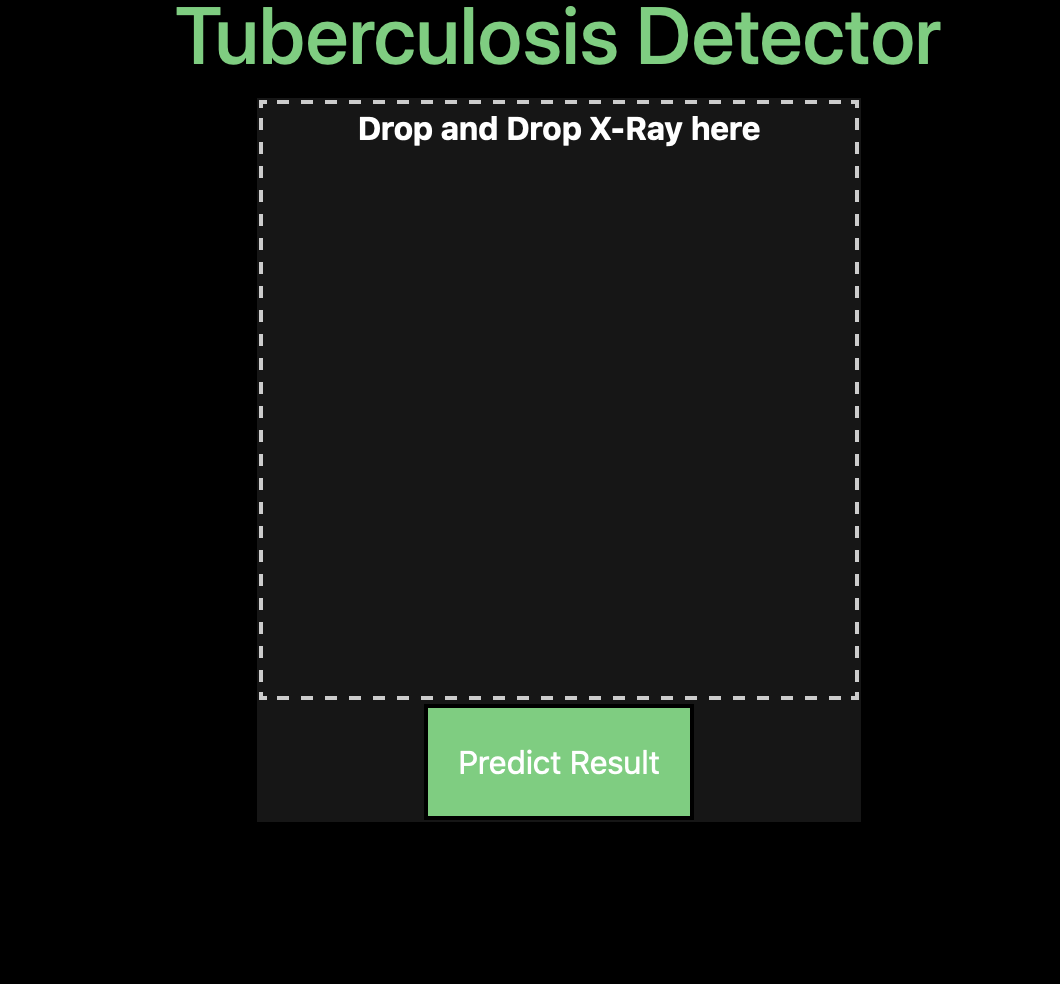
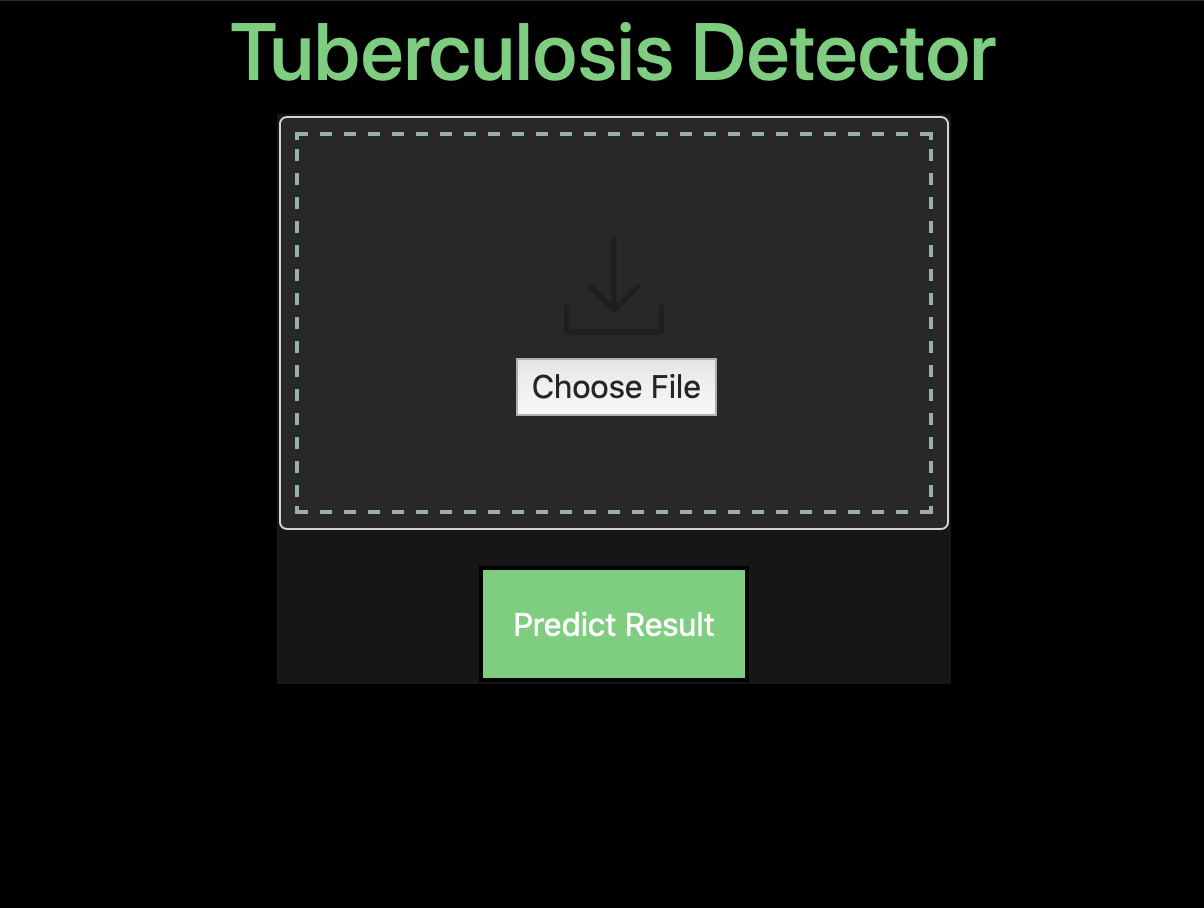
Add files via upload

Changed region(s): [[0.1557, 0.0, 0.9028, 0.5859], [0.3736, 0.6167, 0.6538, 0.8326], [0.4047, 0.37, 0.6226, 0.4626]]

diff --git a/templates/home.html b/templates/home.html
@@ -26,6 +26,37 @@ table
 	padding: 250px;
 	position: relative;
 }
+.files input {
+    outline: 2px dashed #92b0b3;
+    outline-offset: -10px;
+    -webkit-transition: outline-offset .15s ease-in-out, background-color .15s linear;
+    transition: outline-offset .15s ease-in-out, background-color .15s linear;
+    padding: 120px 0px 85px 35%;
+    text-align: center !important;
+    margin: 0;
+    width: 100% !important;
+    background: #282828;
+}
+.files input:focus{     outline: 2px dashed #92b0b3;  outline-offset: -10px;
+    -webkit-transition: outline-offset .15s ease-in-out, background-color .15s linear;
+    transition: outline-offset .15s ease-in-out, background-color .15s linear; border:1px solid #92b0b3;
+ }
+.files{ position:relative}
+.files:after {  pointer-events: none;
+    position: absolute;
+    top: 60px;
+    left: 0;
+    width: 50px;
+    right: 0;
+    height: 56px;
+    content: "";
+    background-image: url(https://image.flaticon.com/icons/png/128/109/109612.png);
+    display: block;
+    margin: 0 auto;
+    background-size: 100%;
+    background-repeat: no-repeat;
+}
+.color input{ background-color:#f1f1f1;}
 
 .modal {
   display: block;
@@ -75,17 +106,21 @@ table
   border-color: #000;
   color: #000;
 }
+input[type='file'] {
+  color: transparent;
+}
 </style>
 
 
 
 	<form method = "POST" enctype="multipart/form-data">
-			<table align="center">
-			<tr>
-				<th align="center">
-        <input type="file" name="image" id="image" required>
-				</th>
-
+<table align="center">
+   <tr>
+				<th>
+        <div class="form-group files">
+                <input type="file" class="form-control" name="image" >
+        </div>
+      </th>
 			</tr>
 			<tr align="center">
 				<th >
@@ -110,6 +145,7 @@ table
       </div>
     {% endif %}
 <script>
+  // Code By Webdevtrick ( https://webdevtrick.com )
 
 // Get the modal
 var modal = document.getElementById("myModal");

diff --git a/templates/layout.html b/templates/layout.html
@@ -2,6 +2,8 @@
 <html>
 <head>
     <link rel="stylesheet" href="https://stackpath.bootstrapcdn.com/bootstrap/4.3.1/css/bootstrap.min.css" integrity="sha384-ggOyR0iXCbMQv3Xipma34MD+dH/1fQ784/j6cY/iJTQUOhcWr7x9JvoRxT2MZw1T" crossorigin="anonymous">
+    <link href="//maxcdn.bootstrapcdn.com/bootstrap/4.0.0/css/bootstrap.min.css" rel="stylesheet" id="bootstrap-css">
+
     <title>Tuberculosis Detector</title>
 </head>
 <style type="text/css">
@@ -41,6 +43,8 @@ input
 	<h1 align="center">Tuberculosis Detector</h1>
     {% block content %}
     {% endblock %}
+    <script src="//maxcdn.bootstrapcdn.com/bootstrap/4.0.0/js/bootstrap.min.js"></script>
+	<script src="//code.jquery.com/jquery-1.11.1.min.js"></script>
     <script src="https://code.jquery.com/jquery-3.3.1.slim.min.js" integrity="sha384-q8i/X+965DzO0rT7abK41JStQIAqVgRVzpbzo5smXKp4YfRvH+8abtTE1Pi6jizo" crossorigin="anonymous"></script>
     <script src="https://cdnjs.cloudflare.com/ajax/libs/popper.js/1.14.7/umd/popper.min.js" integrity="sha384-UO2eT0CpHqdSJQ6hJty5KVphtPhzWj9WO1clHTMGa3JDZwrnQq4sF86dIHNDz0W1" crossorigin="anonymous"></script>
     <script src="https://stackpath.bootstrapcdn.com/bootstrap/4.3.1/js/bootstrap.min.js" integrity="sha384-JjSmVgyd0p3pXB1rRibZUAYoIIy6OrQ6VrjIEaFf/nJGzIxFDsf4x0xIM+B07jRM" crossorigin="anonymous"></script>
